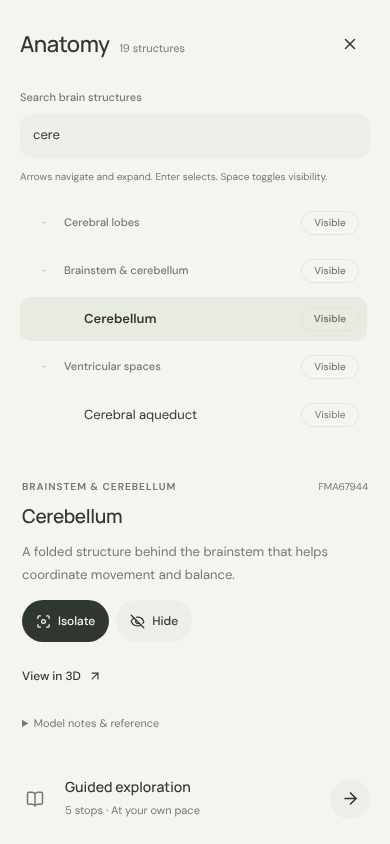
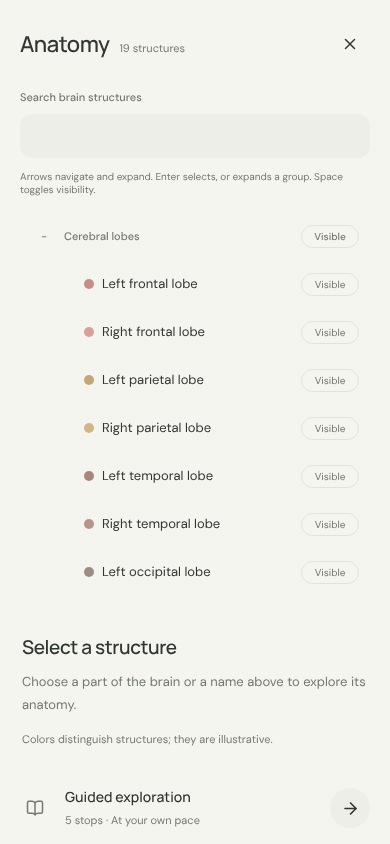
Adopt anatomy-tree colours, non-selectable groups and built-in reveal
Reinstall the registry `anatomy-tree` with `shadcn@4.21.0 add -o` from
organui PR #12 (commit d6b36d0, unmerged; served locally because organui.com
and ui.shadcn.com are blocked here). The installed file is unmodified; the
CLI's `^1.8.0` rewrite of @base-ui/react was re-pinned to 1.8.0, so
package.json and bun.lock are unchanged.

- Adapter: every leaf gets `color` from its structure (the mesh colour);
  group rows are `selectable: false`, so a label click or Enter expands or
  collapses them. onSelectionChange keeps a one-line isStructureId guard.
- App: remove the effect that scrolled the row list to the selected row;
  the tree now expands and scrolls to 3D picks, tour steps and Reveal
  inside itself. The reset remount (key) stays to clear search/expansion.
- Tests: non-selectable groups and leaf colours equal structure colours.
- Browser check (production build, 1440x900 and 390x844): swatches match
  mesh colours, group clicks don't select, 3D pick into collapsed groups
  (panel open and closed) and a tour step reveal and scroll the row.
- Docs: REGISTRY_INTEGRATION (new install, checksums, options, resolved
  friction), VERIFICATION, README; refreshed panel screenshots.

Claude-Session: https://claude.ai/code/session_01WZXw8BNji5gYqeZAzSuRCJ

diff --git a/src/components/ui/anatomy-tree.tsx b/src/components/ui/anatomy-tree.tsx
@@ -5,6 +5,13 @@ export type AnatomyNode = {
   id: string
   label: string
   children?: readonly AnatomyNode[]
+  /** A CSS color shown as a decorative swatch before the label. */
+  color?: string
+  /**
+   * Defaults to true. A row that is not selectable expands or collapses
+   * instead, for groupings that have no single structure to select.
+   */
+  selectable?: boolean
 }
 export type AnatomyTreeProps = {
   data: readonly AnatomyNode[]
@@ -158,11 +165,35 @@ export function AnatomyTree({
   const helpId = React.useId()
   const searchId = React.useId()
   const searching = deferredQuery.trim() !== ""
+  const groupsExpand = React.useMemo(
+    () => [...index.nodes.values()].some((node) => node.selectable === false),
+    [index]
+  )
   const rows = React.useMemo(
     () => anatomyRows(data, index, expanded, deferredQuery),
     [data, index, expanded, deferredQuery]
   )
   const focusId = focusTarget(rows, activePath, index.parents)
+  // Reveal a selection made outside the tree, such as in a 3D view: when its
+  // row is not shown, expand its ancestors, then scroll the row into view.
+  const [reveal, setReveal] = React.useState({ id: selectedId, scroll: false })
+  if (reveal.id !== selectedId) {
+    const known = !!selectedId && index.nodes.has(selectedId)
+    const shown = rows.some(({ node }) => node.id === selectedId)
+    setReveal({ id: selectedId, scroll: known })
+    const ancestors: string[] = []
+    let parent = known && !shown ? index.parents.get(selectedId!) : undefined
+    while (parent) {
+      ancestors.push(parent)
+      parent = index.parents.get(parent)
+    }
+    if (ancestors.some((id) => !expanded.has(id)))
+      setExpanded(new Set([...expanded, ...ancestors]))
+  }
+  React.useEffect(() => {
+    if (reveal.scroll && reveal.id)
+      refs.current.get(reveal.id)?.scrollIntoView?.({ block: "nearest" })
+  }, [reveal])
   React.useLayoutEffect(() => {
     // Recover only when an update removed the focused element. Focus that
     // left the tree on purpose, even to the body, is never taken back.
@@ -187,6 +218,10 @@ export function AnatomyTree({
       return next
     })
   }
+  function activate(node: AnatomyNode) {
+    if (node.selectable !== false) onSelectionChange(node.id)
+    else if (node.children?.length && !searching) toggleExpanded(node.id)
+  }
   function toggleVisibility(node: AnatomyNode) {
     onVisibilityChange(nextVisibility(node, index, visibility))
   }
@@ -206,7 +241,9 @@ export function AnatomyTree({
         className="mb-3 w-full rounded-md border bg-background px-3 py-2 text-sm focus-visible:outline-2 focus-visible:outline-ring"
       />
       <p id={helpId} className="mb-3 text-xs text-muted-foreground">
-        Arrows navigate and expand. Enter selects. Space toggles visibility.
+        {groupsExpand
+          ? "Arrows navigate and expand. Enter selects, or expands a group. Space toggles visibility."
+          : "Arrows navigate and expand. Enter selects. Space toggles visibility."}
       </p>
       <div
         role="tree"
@@ -249,7 +286,9 @@ export function AnatomyTree({
               aria-setsize={size}
               aria-posinset={position}
               aria-expanded={branch ? open : undefined}
-              aria-selected={selectedId === node.id}
+              aria-selected={
+                node.selectable === false ? undefined : selectedId === node.id
+              }
               aria-checked={checked}
               tabIndex={focusId === node.id ? 0 : -1}
               onFocus={() => {
@@ -290,7 +329,7 @@ export function AnatomyTree({
                   if (branch && open && !searching) toggleExpanded(node.id)
                   else focus(index.parents.get(node.id))
                 }
-                if (event.key === "Enter") onSelectionChange(node.id)
+                if (event.key === "Enter") activate(node)
                 if (event.key === " ") toggleVisibility(node)
               }}
               className="my-1 flex min-h-10 items-center gap-1 rounded-md px-2 text-sm outline-offset-2 hover:bg-muted focus-visible:outline-2 focus-visible:outline-ring aria-selected:bg-accent aria-selected:font-semibold"
@@ -316,11 +355,18 @@ export function AnatomyTree({
                 tabIndex={-1}
                 onClick={() => {
                   focus(node.id)
-                  onSelectionChange(node.id)
+                  activate(node)
                 }}
-                className="min-w-0 flex-1 py-2 text-start break-words"
+                className="flex min-w-0 flex-1 items-center gap-2 py-2 text-start break-words"
               >
-                {node.label}
+                {node.color && (
+                  <span
+                    aria-hidden="true"
+                    className="size-2.5 shrink-0 rounded-full"
+                    style={{ backgroundColor: node.color }}
+                  />
+                )}
+                <span className="min-w-0">{node.label}</span>
               </Button>
               <Button
                 tabIndex={-1}

diff --git a/src/App.tsx b/src/App.tsx
@@ -52,23 +52,12 @@ export default function App() {
   const anatomyPanel = useRef<HTMLElement>(null)
   const sidebarToggle = useRef<HTMLButtonElement>(null)
   const focusPanel = useRef(false)
-  // Remounting clears the registry tree's internal search and disclosure state.
+  // Reset remounts the registry tree to clear its internal search and expansion.
+  // Selections made in 3D or the tour are revealed by the tree itself.
   const [treeKey, setTreeKey] = useState(0)
   const current = selected ? byId[selected] : null
   const visibleCount = structures.length - hidden.size
   const visibility = useMemo(() => visibilityFromHidden(hidden), [hidden])
-
-  // Keep the selected row in view inside the tree's own scroll area, e.g. after
-  // a 3D pick or tour step. Rows of collapsed groups are not rendered.
-  useLayoutEffect(() => {
-    const tree = anatomyPanel.current?.querySelector<HTMLElement>('[role="tree"]')
-    const row = tree?.querySelector<HTMLElement>('[role="treeitem"][aria-selected="true"]')
-    if (!tree || !row || tree.scrollHeight <= tree.clientHeight) return
-    const bounds = tree.getBoundingClientRect(),
-      item = row.getBoundingClientRect()
-    if (item.top < bounds.top) tree.scrollTop += item.top - bounds.top
-    else if (item.bottom > bounds.bottom) tree.scrollTop += item.bottom - bounds.bottom
-  }, [selected, step, sidebarOpen, treeKey])
 
   useLayoutEffect(() => {
     if (!sidebarOpen || !focusPanel.current) return
@@ -325,11 +314,9 @@ export default function App() {
             key={treeKey}
             data={anatomyTree}
             selectedId={selected}
-            onSelectionChange={(id) => {
-              // Group rows are interface groupings: they expand/collapse and toggle
-              // visibility, but selection (and its 3D emphasis) stays on one structure.
-              if (isStructureId(id)) select(id)
-            }}
+            // Group rows are `selectable: false`, so the tree only reports leaves;
+            // the guard keeps selection on a single scene structure regardless.
+            onSelectionChange={(id) => isStructureId(id) && select(id)}
             visibility={visibility}
             onVisibilityChange={changeVisibility}
             defaultExpandedIds={groupIds}

diff --git a/src/anatomy-adapter.ts b/src/anatomy-adapter.ts
@@ -3,7 +3,9 @@ import { groups, structures } from './anatomy'
 
 // Scene-specific mapping between the registry anatomy tree and this explorer.
 // Group rows are interface groupings taken from the existing structure catalog
-// (`Structure.group`); they do not claim anatomical containment.
+// (`Structure.group`); they do not claim anatomical containment, so they are not
+// selectable (activating one expands or collapses it). Leaves carry the same
+// colour as their 3D mesh.
 
 export const groupId = (group: string) =>
   `group-${group
@@ -15,9 +17,10 @@ export const groupId = (group: string) =>
 export const anatomyTree: AnatomyNode[] = groups.map((group) => ({
   id: groupId(group),
   label: group,
+  selectable: false,
   children: structures
     .filter((structure) => structure.group === group)
-    .map(({ id, name }) => ({ id, label: name })),
+    .map(({ id, name, color }) => ({ id, label: name, color })),
 }))
 
 export const groupIds = anatomyTree.map(({ id }) => id)

diff --git a/src/anatomy-adapter.test.ts b/src/anatomy-adapter.test.ts
@@ -23,6 +23,18 @@ describe('anatomy tree adapter', () => {
     )
   })
 
+  test('marks groups as non-selectable and colours leaves like their meshes', () => {
+    for (const group of anatomyTree) {
+      expect(group.selectable).toBe(false)
+      expect(group.color).toBeUndefined()
+      for (const leaf of group.children!) {
+        expect(leaf.selectable).toBeUndefined()
+        expect(leaf.color).toBe(structures.find(({ id }) => id === leaf.id)!.color)
+        expect(leaf.color).toMatch(/^#[0-9a-f]{6}$/)
+      }
+    }
+  })
+
   test('maps groups to their scene leaves and leaves to themselves', () => {
     expect(sceneIdsForNode('group-deep-structures')).toEqual([
       'left-hippocampus',

diff --git a/docs/REGISTRY_INTEGRATION.md b/docs/REGISTRY_INTEGRATION.md
@@ -4,43 +4,45 @@ The Anatomy panel's structure list is the OrganUI registry component `anatomy-tr
 
 ## Exact installation
 
-Installed on 2026-10-16 with:
+Reinstalled on 2026-10-16 (overwriting the earlier install from organui `master` `5e20c41`) with:
 
 ```sh
-REGISTRY_URL=http://127.0.0.1:4410 bunx shadcn@4.21.0 add http://127.0.0.1:4410/anatomy-tree.json -y
+REGISTRY_URL=http://127.0.0.1:4411 bunx shadcn@4.21.0 add http://127.0.0.1:4411/anatomy-tree.json -y -o
 ```
 
-`organui.com` (the public registry) and `ui.shadcn.com` were blocked by the network policy of the sandbox this work was done in. The item was therefore served from a local static server (`python3 -m http.server 4410 --bind 127.0.0.1`) hosting the registry artifact built from the OrganUI monorepo `master` at commit **`5e20c41`**, plus shadcn's `colors/neutral.json` fetched from the shadcn GitHub repository. `REGISTRY_URL` points the CLI's base-color lookup at that server instead of `ui.shadcn.com`. With normal network access the equivalent command is:
+The item is the registry artifact from **organui PR #12** (branch commit **`d6b36d0`**), which adds the `color` and `selectable` node options and the built-in reveal of an outside selection. PR #12 was **not merged** at the time. `organui.com` (the public registry) and `ui.shadcn.com` were blocked by the network policy of the sandbox this work was done in, so the artifact was served from a local static server (`python3 -m http.server 4411 --bind 127.0.0.1`), together with shadcn's `colors/neutral.json` fetched from the shadcn GitHub repository. `REGISTRY_URL` points the CLI's base-color lookup at that server instead of `ui.shadcn.com`. **After PR #12 merges, re-run the install against organui.com and confirm the checksums below** (or record the new ones):
 
 ```sh
-bunx shadcn@4.21.0 add https://organui.com/r/anatomy-tree.json -y
+bunx shadcn@4.21.0 add https://organui.com/r/anatomy-tree.json -y -o
 ```
 
 Provenance at install time:
 
 | Artifact                                               | SHA-256                                                            |
 | ------------------------------------------------------ | ------------------------------------------------------------------ |
[6 lines of base64/hex data omitted]
 
-The item declares `@base-ui/react@^1.8.0`. The CLI wrote `^1.8.0` into `package.json`; it was changed back to an exact `1.8.0` pin and `bun install` re-run, so `bun.lock` (text format) resolves 1.8.0. The project uses React 19.2.8, TypeScript 7.0.2, Vite 8.3.0, Tailwind CSS 4.1.18 (`tailwindcss` + `@tailwindcss/vite`), and the kidneys `components.json` (Base UI consumer shape, `@/*` aliases).
+The item declares `@base-ui/react@^1.8.0`. The CLI again wrote `^1.8.0` into `package.json`; it was changed back to the exact `1.8.0` pin and `bun install` re-run, so `bun.lock` (text format) is unchanged and resolves 1.8.0. The project uses React 19.2.8, TypeScript 7.0.2, Vite 8.3.0, Tailwind CSS 4.1.18 (`tailwindcss` + `@tailwindcss/vite`), and the kidneys `components.json` (Base UI consumer shape, `@/*` aliases).
 
 ## Installed-source differences
 
-The only difference between the embedded source and the installed file is that the CLI removed the leading `"use client"` directive (and the blank line after it) for this non-RSC Vite target (`"rsc": false`). No behavior, markup, API, state, or class names differ.
+The only differences between the embedded source and the installed file are that the CLI removed the leading `"use client"` directive (and the blank line after it) for this non-RSC Vite target (`"rsc": false`) and dropped the embedded source's trailing blank line. No behavior, markup, API, state, or class names differ.
 
 The `@/* -> src/*` alias was configured in `tsconfig.json` and `vite.config.ts` before installing, so the CLI wrote the file directly to `src/components/ui/anatomy-tree.tsx` (kidneys had to move it). The file is listed in `.prettierignore` and is never hand-edited, so its checksum above stays stable. Re-running the install command should reproduce it byte for byte.
 
 ## API used
 
-- `data`: the hierarchy from `src/anatomy-adapter.ts` (unique IDs);
+- `data`: the hierarchy from `src/anatomy-adapter.ts` (unique IDs), using the node options
+  - `color` on every leaf: the structure's colour from `src/anatomy.ts`, the same value the 3D mesh material uses, shown as the swatch before the label;
+  - `selectable: false` on every group row: activating a group's label (click or Enter) expands or collapses it instead of selecting, and the row has no `aria-selected`;
 - `selectedId` / `onSelectionChange`: the app's single controlled selection;
 - `visibility` / `onVisibilityChange`: a map keyed by **leaf** IDs, missing = visible;
 - `defaultExpandedIds`: all four groups start expanded, so every structure name is in the text alternative;
 - `label` (`"Brain structures"`, which also produces the visible label "Search brain structures") and `className` (`registry-tree`, for scoped panel styling).
 
-Search and expansion remain internal to the component.
+Search and expansion remain internal to the component. When `selectedId` changes to a row that is not shown (a 3D pick, a tour step, or Reveal inside), the component expands that row's group and scrolls the row into view; the app has no code for this.
 
 ## Application adapter
 
@@ -57,23 +59,24 @@ Groups are the panel headings the explorer already used. They are interface grou
 
 The adapter exports:
 
-- `anatomyTree`, `groupIds`, `groupId` — the tree data;
+- `anatomyTree`, `groupIds`, `groupId` — the tree data (groups `selectable: false`, leaves with `color`);
 - `sceneIdsForNode` — scene leaves for a leaf or group row;
 - `normalizeVisibility` — the component's "missing means visible" contract as an explicit map;
 - `visibilityFromHidden` / `hiddenFromVisibility` — conversion between the app's existing hidden `Set` and the tree's leaf visibility map (unknown and group keys are ignored);
 - `isStructureId`;
 - `assertAnatomyMapping` — runs at import and throws on missing, unknown, or duplicate leaves.
 
-`src/anatomy-adapter.test.ts` covers group IDs and completeness, group-to-leaf mapping, the missing-means-visible rule, hidden-set round-tripping, and each rejection case.
+`src/anatomy-adapter.test.ts` covers group IDs and completeness, non-selectable groups and leaf colours equal to the structure (mesh) colours, group-to-leaf mapping, the missing-means-visible rule, hidden-set round-tripping, and each rejection case.
 
 ## Decisions
 
 - **State ownership.** The app keeps its existing state: `hidden: Set<string>` and a single `selected` structure ID. The tree's `visibility` is derived from `hidden` (`visibilityFromHidden`) and its changes are written back (`hiddenFromVisibility`). Isolate, Hide/Show structure, Reveal inside, the tour, Restore all, and Reset all write the same `hidden` set, so the tree's leaf and parent (`true` / `false` / `"mixed"`) states always match the scene.
-- **Group selection: leaves only.** The explorer's emphasis model (`emphasis()` in `src/anatomy.ts`, used by `Viewer.tsx`) highlights exactly one selected structure at 0.35 emissive and ghosts the rest; it has no multi-structure selection, details card, or chip for a group. Rather than add one, group rows are limited to expand/collapse and visibility toggling. Activating a group's label (click or Enter) is ignored, and the current leaf selection stays as it was. Leaf rows, 3D picks, and tour steps all set the same controlled `selected` ID.
+- **Group selection: leaves only.** The explorer's emphasis model (`emphasis()` in `src/anatomy.ts`, used by `Viewer.tsx`) highlights exactly one selected structure at 0.35 emissive and ghosts the rest; it has no multi-structure selection, details card, or chip for a group. Rather than add one, group rows are `selectable: false`: activating a group's label (click or Enter) expands or collapses it, and the current leaf selection stays as it was. `onSelectionChange` keeps a one-line `isStructureId` guard as a cheap defence. Leaf rows, 3D picks, and tour steps all set the same controlled `selected` ID.
 - **Reset** increments a `key` on `<AnatomyTree>`, remounting it to clear its internal search text and restore the default expansion, along with selection, visibility, tour, and camera. Tour steps and 3D picks do not clear the tree's search (the old list did); if a search hides the selected row, the chip and details card still show the selection.
-- **Selected row in view.** After a 3D pick, tour step, or Reveal inside, the app scrolls the tree's own row list so the selected row is visible. It does this by querying the rendered `[role="treeitem"][aria-selected="true"]` rather than changing the component. A row inside a collapsed group is not rendered and cannot be scrolled to.
+- **Selected row in view.** Handled by the component's built-in reveal (see above). The app's earlier effect that scrolled the row list to `[aria-selected="true"]` was removed. A selection made while the panel is closed is expanded at that moment; the browser check confirmed that opening the panel from the chip then shows the row selected and in view.
+- **Colour swatches.** Each leaf shows its structure colour, as the old hand-built list did; group rows have none. The selection chip and the 3D selection use the same colour.
 - **Picking.** Hidden structures are not pickable: `pickVisibleMesh` (`src/picking.ts`) discards intersections with objects that are invisible or have an invisible ancestor. The browser check hid a picked lobe and confirmed the same click then selected the structure behind it. Hidden structures stay selectable from the tree, and the details card offers **Show structure**.
-- **Removed:** the hand-built grouped list, its search box and `query` state, its scroll-fade measurement, and their CSS. The tree's search matches labels only, so searching by FMA identifier or BodyParts3D source name (which the old box supported) is no longer available. FMA IDs and source names remain in the details card. The per-row colour dots of the old list are gone too. The chip and the 3D selection still use the structure colour.
+- **Removed:** the hand-built grouped list, its search box and `query` state, its scroll-fade measurement, and their CSS. The tree's search matches labels only, so searching by FMA identifier or BodyParts3D source name (which the old box supported) is no longer available. FMA IDs and source names remain in the details card.
 
 ## Theme and Tailwind setup
 
@@ -83,14 +86,15 @@ Preflight is kept so the registry component renders as designed. As in kidneys, 
 
 ## Friction and registry observations
 
-1. There is no way to make branch rows non-selectable. Clicking a group label or pressing Enter on it calls `onSelectionChange(groupId)`; this consumer ignores it, so the click visibly does nothing. A prop such as `selectableBranches={false}` would make the leaves-only decision explicit to users and assistive technology.
-2. Search and expansion are internal. Resetting them needs a remount, and an app cannot expand a collapsed group to show a row selected in 3D.
-3. Search matches `label` only. Consumers with secondary identifiers (FMA IDs here) cannot make them searchable without putting them in the visible label.
-4. The `+`/`−` disclosure glyphs and the visible/hidden/mixed buttons are text-only, with no slot for an icon or a per-leaf colour swatch.
-5. The CLI rewrote the exact `@base-ui/react` pin to `^1.8.0` in `package.json`; it was re-pinned by hand.
+Resolved by organui PR #12 and now used here: non-selectable group rows (`selectable: false`), per-leaf colour swatches (`color`), and expanding/scrolling to a selection made outside the tree (built-in reveal). Still open:
+
+1. Search and expansion are internal. Resetting them needs a remount (`key`).
+2. Search matches `label` only. Consumers with secondary identifiers (FMA IDs here) cannot make them searchable without putting them in the visible label.
+3. The `+`/`−` disclosure glyphs and the visible/hidden/mixed buttons are text-only, with no slot for an icon.
+4. The CLI rewrote the exact `@base-ui/react` pin to `^1.8.0` in `package.json` again; it was re-pinned by hand.
 
 None of these blocked the integration, and the component was not forked.
 
 ## Accessibility scope
 
-The tree supplies `role="tree"`/`treeitem` semantics, `aria-selected`, `aria-checked` (including `mixed`), `aria-level`/`setsize`/`posinset`, roving focus, and arrow, Home, End, Enter, and Space keys. These were exercised with Playwright in headless Chromium. **No screen-reader testing was done.**
+The tree supplies `role="tree"`/`treeitem` semantics, `aria-selected`, `aria-checked` (including `mixed`), `aria-level`/`setsize`/`posinset`, roving focus, and arrow, Home, End, Enter, and Space keys. Non-selectable group rows omit `aria-selected`, and the keyboard hint says Enter selects or expands a group. These were exercised with Playwright in headless Chromium. **No screen-reader testing was done.**

diff --git a/README.md b/README.md
@@ -11,7 +11,7 @@ A focused, open-source 3D brain anatomy explorer from [OrganUI](https://github.c
 - Rotate, pinch/scroll, zoom buttons, reset, keyboard controls, and six named anatomical views. Manual rotation changes the label to **Custom view**.
 - Nineteen selectable source-backed groups: bilateral frontal, parietal, temporal, and occipital lobes; bilateral hippocampi; cerebellum; midbrain, pons, and medulla; and five ventricular-space surfaces.
 - Each named view is framed from the model's sampled surface, so the brain fills a similar share of the canvas from every side.
-- Synchronized scene/tree selection, search by structure name, hide, isolate, and restore. The anatomy panel uses the OrganUI registry `anatomy-tree` component: four interface groups (cerebral lobes, deep structures, brainstem & cerebellum, ventricular spaces) that expand, collapse, and show/hide their structures together, with a mixed state when only some are hidden. Selecting a structure ghosts the others to translucent, canvas-toned surfaces so the selection reads from any view, including deep structures such as the ventricles.
+- Synchronized scene/tree selection, search by structure name, hide, isolate, and restore. The anatomy panel uses the OrganUI registry `anatomy-tree` component: four interface groups (cerebral lobes, deep structures, brainstem & cerebellum, ventricular spaces) that expand, collapse, and show/hide their structures together, with a mixed state when only some are hidden. Groups are not selectable; each structure row shows its 3D colour, and a structure selected in 3D or by the tour is expanded and scrolled into view in the list. Selecting a structure ghosts the others to translucent, canvas-toned surfaces so the selection reads from any view, including deep structures such as the ventricles.
 - **Reveal inside** hides the four left cerebral-lobe surface groups while preserving deeper structures in their original alignment. It is a visibility reveal, not a cut surface or medical image.
 - A five-stop guided exploration that includes the supported reveal and reliably returns to the anterior overview.
 - Initially collapsed anatomy panel, mobile layout, reduced-motion handling, keyboard-accessible controls, loading progress, missing-model recovery, and a text alternative when 3D is unavailable.
@@ -49,7 +49,7 @@ Raw downloads stay in ignored `.asset-cache/`; the script downloads them when ab
 
 ## Registry component
 
-`src/components/ui/anatomy-tree.tsx` is installed unmodified from the OrganUI registry with the shadcn CLI (Tailwind CSS 4 and Base UI 1.8.0), and it is excluded from Prettier so its checksum stays stable. Brain-specific mapping lives in `src/anatomy-adapter.ts`. The install command, checksums, adapter table, and design decisions are in [registry integration](docs/REGISTRY_INTEGRATION.md).
+`src/components/ui/anatomy-tree.tsx` is installed unmodified from the OrganUI registry with the shadcn CLI (currently from organui PR #12, commit `d6b36d0`, served locally until it merges) (Tailwind CSS 4 and Base UI 1.8.0), and it is excluded from Prettier so its checksum stays stable. Brain-specific mapping lives in `src/anatomy-adapter.ts`. The install command, checksums, adapter table, and design decisions are in [registry integration](docs/REGISTRY_INTEGRATION.md).
 
 ## Model scope and provenance
 

diff --git a/docs/VERIFICATION.md b/docs/VERIFICATION.md
@@ -108,3 +108,18 @@ The hand-built anatomy list and its search box were replaced with the OrganUI re
 - Tailwind preflight regression check: computed styles of every element outside the anatomy list were compared with `origin/main` (overview, guided tour, About dialog; both viewports). The only differences were zero-width border-style values and the panel height change caused by the tree.
 - `anatomy.png`, `reveal.png`, `guided-reveal.png`, and `mobile-anatomy.png` were regenerated. `desktop.png`, `mobile.png`, and `model-failure.png` show the panel closed and were not regenerated. `deployed-preview.png` predates the tree.
 - Not tested: screen-reader sessions (no assistive-technology testing was done), physical touch devices, and browsers other than Chromium. The Vercel deployment above predates this change.
+
+## Registry anatomy tree update: colours, non-selectable groups, built-in reveal (2026-10-16)
+
+Reinstalled `anatomy-tree` from organui PR #12 (commit `d6b36d0`, unmerged, served locally; see [registry integration](REGISTRY_INTEGRATION.md)). Leaves now carry their mesh colour, group rows are `selectable: false`, and the app's own scroll-to-selection effect was removed in favour of the component's reveal. Checked with Bun 1.4.2 and Playwright 1.56 driving headless Chromium (SwiftShader WebGL) against the production build (`bun run preview`) on local port `4471`:
+
+- From a clean `node_modules`: `bun install --frozen-lockfile`, `bun run typecheck`, `bun test` (13 tests, 99 assertions), `bun run build`, `bun run verify:model`, and `bun run format:check` passed. `package.json` and `bun.lock` are unchanged (`@base-ui/react` stays pinned at 1.8.0).
+- `scripts/browser-check.cjs` passed at 1440×900 and 390×844, including the earlier checks above (with group Enter now expanding/collapsing) and:
+  - All 19 leaf rows show a visible swatch whose computed colour equals the structure colour the mesh uses; group rows have none. The chip dot for the selected structure has the same colour.
+  - Clicking a group label (desktop and mobile) or pressing Enter on it collapses and expands the group, the row has no `aria-selected`, and the selection is unchanged.
+  - With all four groups collapsed and the panel open, a 3D click selected **Right frontal lobe**: Cerebral lobes expanded, the other three groups stayed collapsed, and the row was selected and in view, with the view label still **Anterior**.
+  - With Cerebral lobes collapsed and the panel closed, a 3D click selected the same lobe; opening the panel from the chip showed the group expanded and the row selected and in view.
+  - On mobile, with Ventricular spaces collapsed and the row list scrolled to the top, the tour's last stop expanded the group and scrolled the list to **Right lateral ventricle**.
+  - Reveal inside scrolls the desktop row list to the hippocampus. Search, hide/show of leaves and groups (mixed state), Reset clearing search and expansion, and Escape focus return all passed. No horizontal overflow on mobile (`390 = 390`). No console or page errors.
+- `anatomy.png`, `reveal.png`, `guided-reveal.png`, and `mobile-anatomy.png` were regenerated and reviewed.
+- Not tested: screen readers, physical touch devices, browsers other than Chromium, and the install against organui.com (blocked here; to be re-verified after PR #12 merges).
